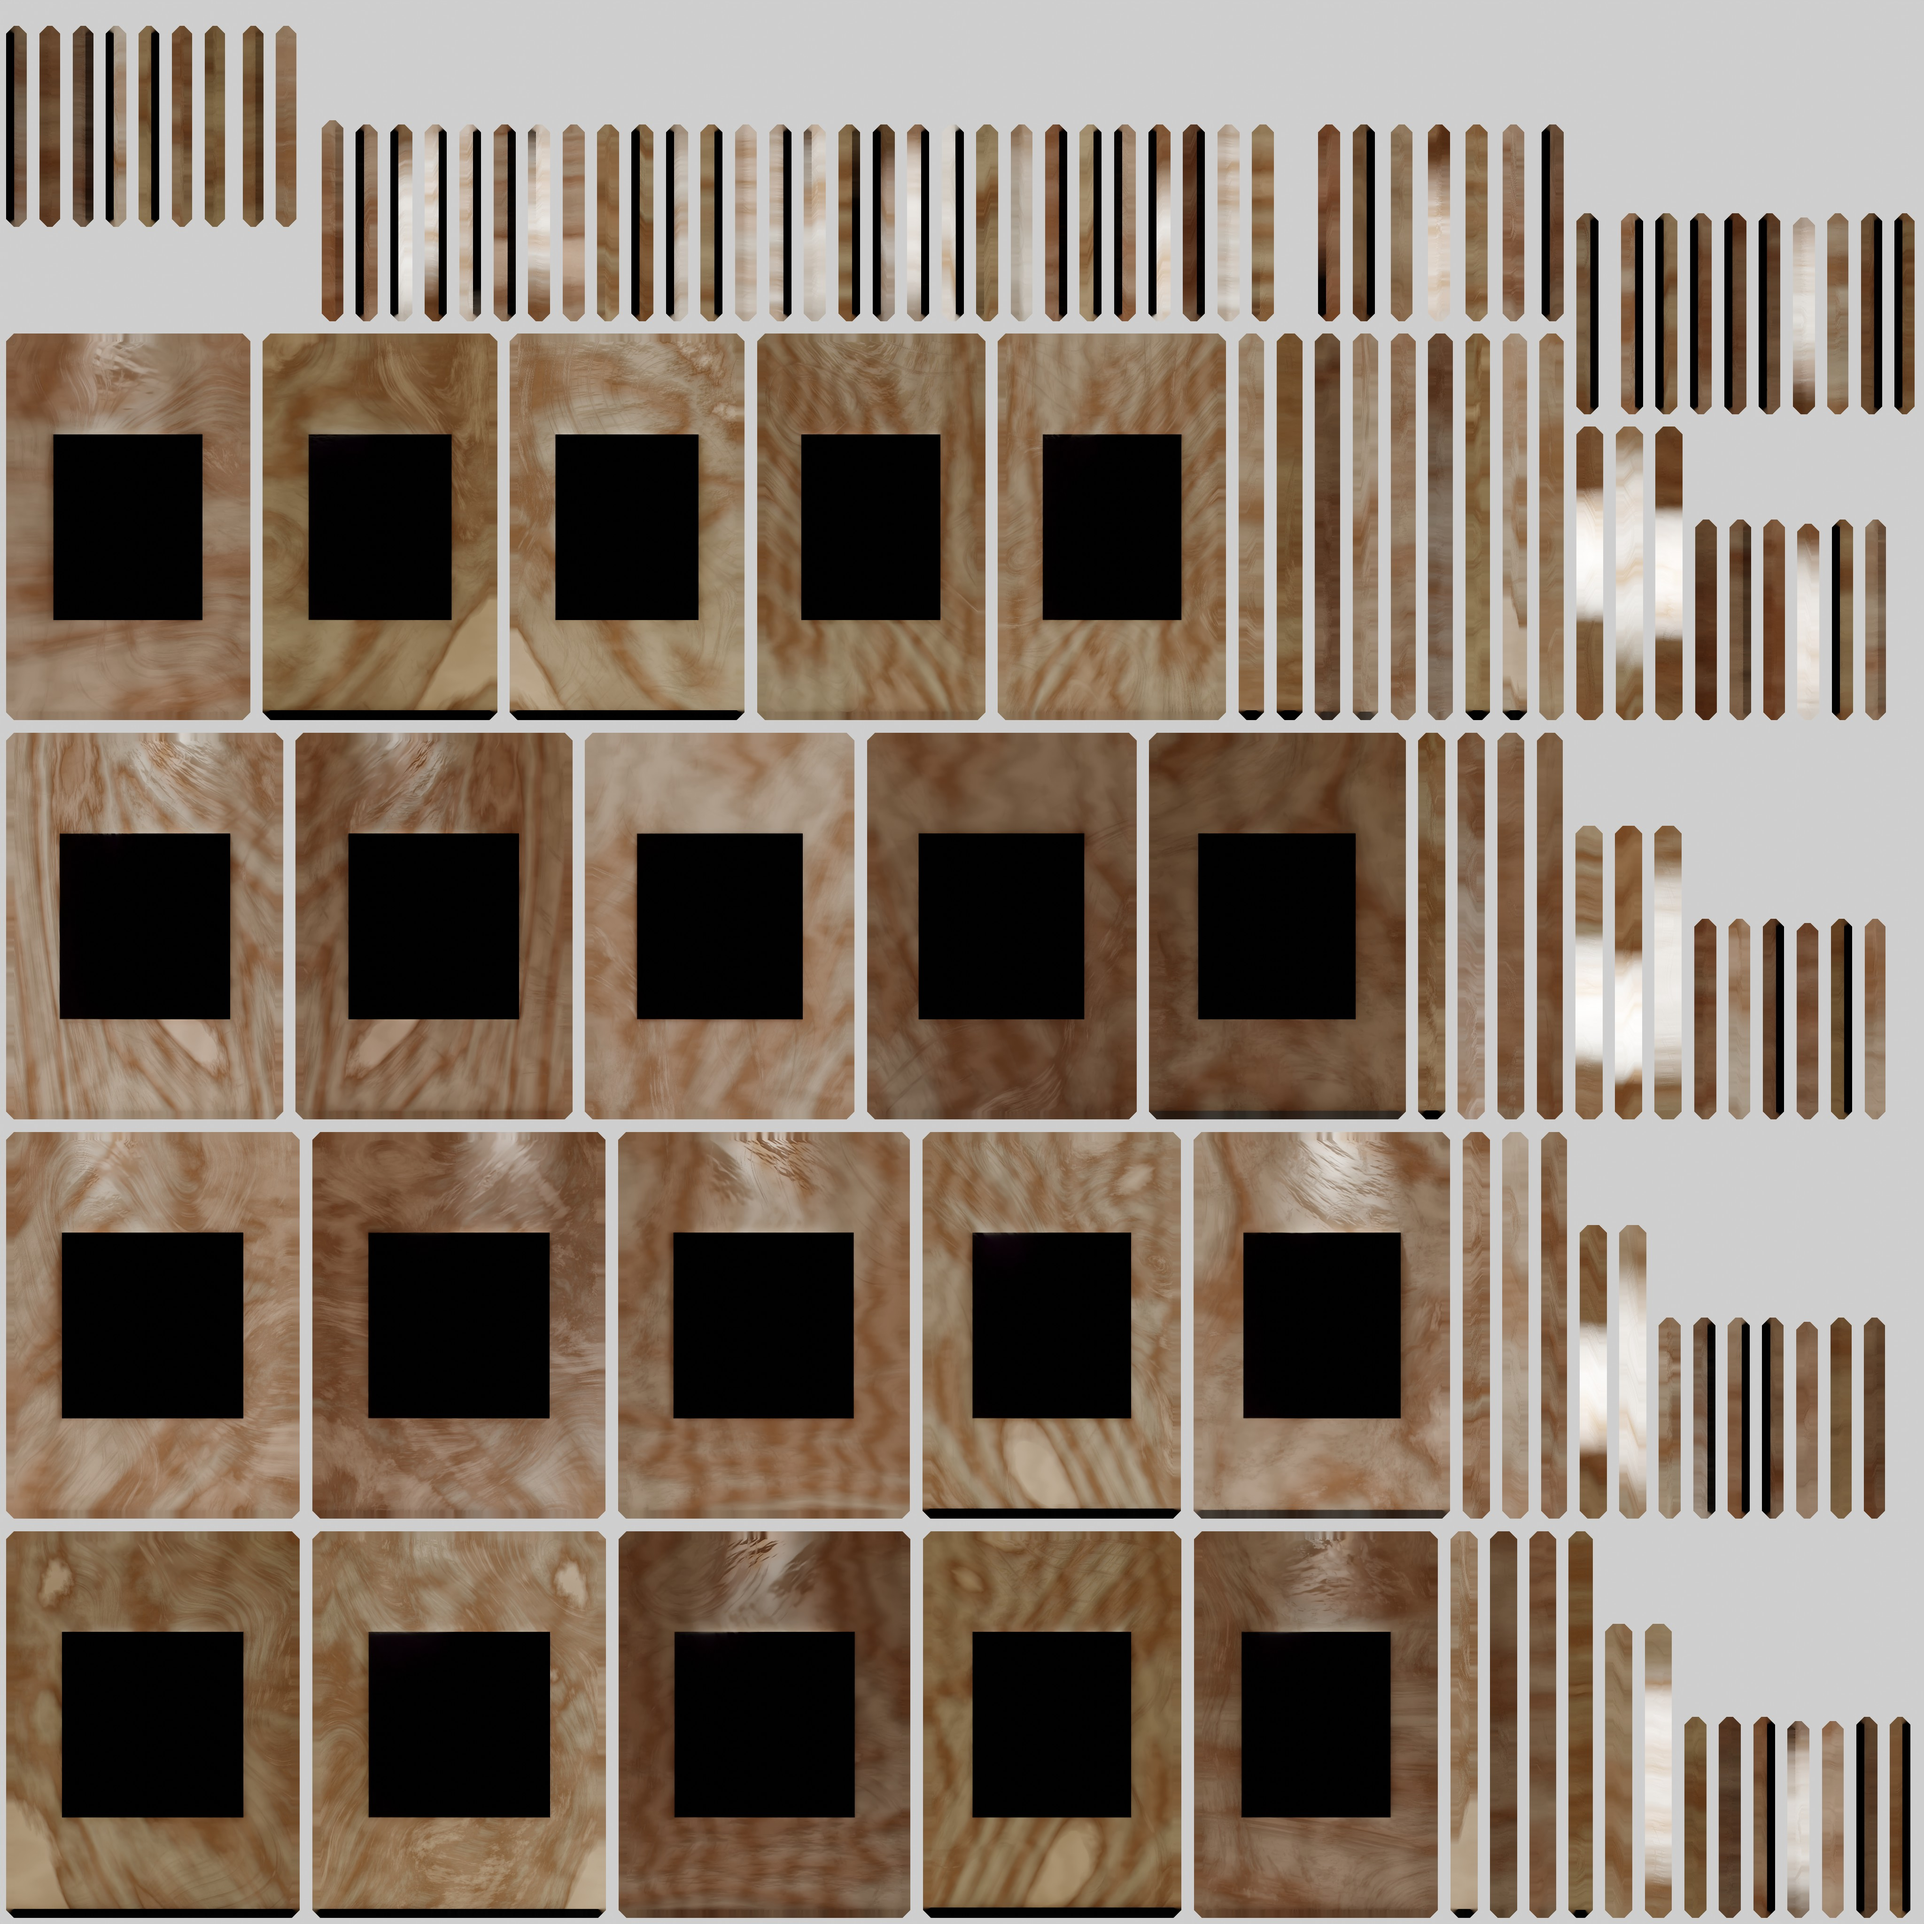
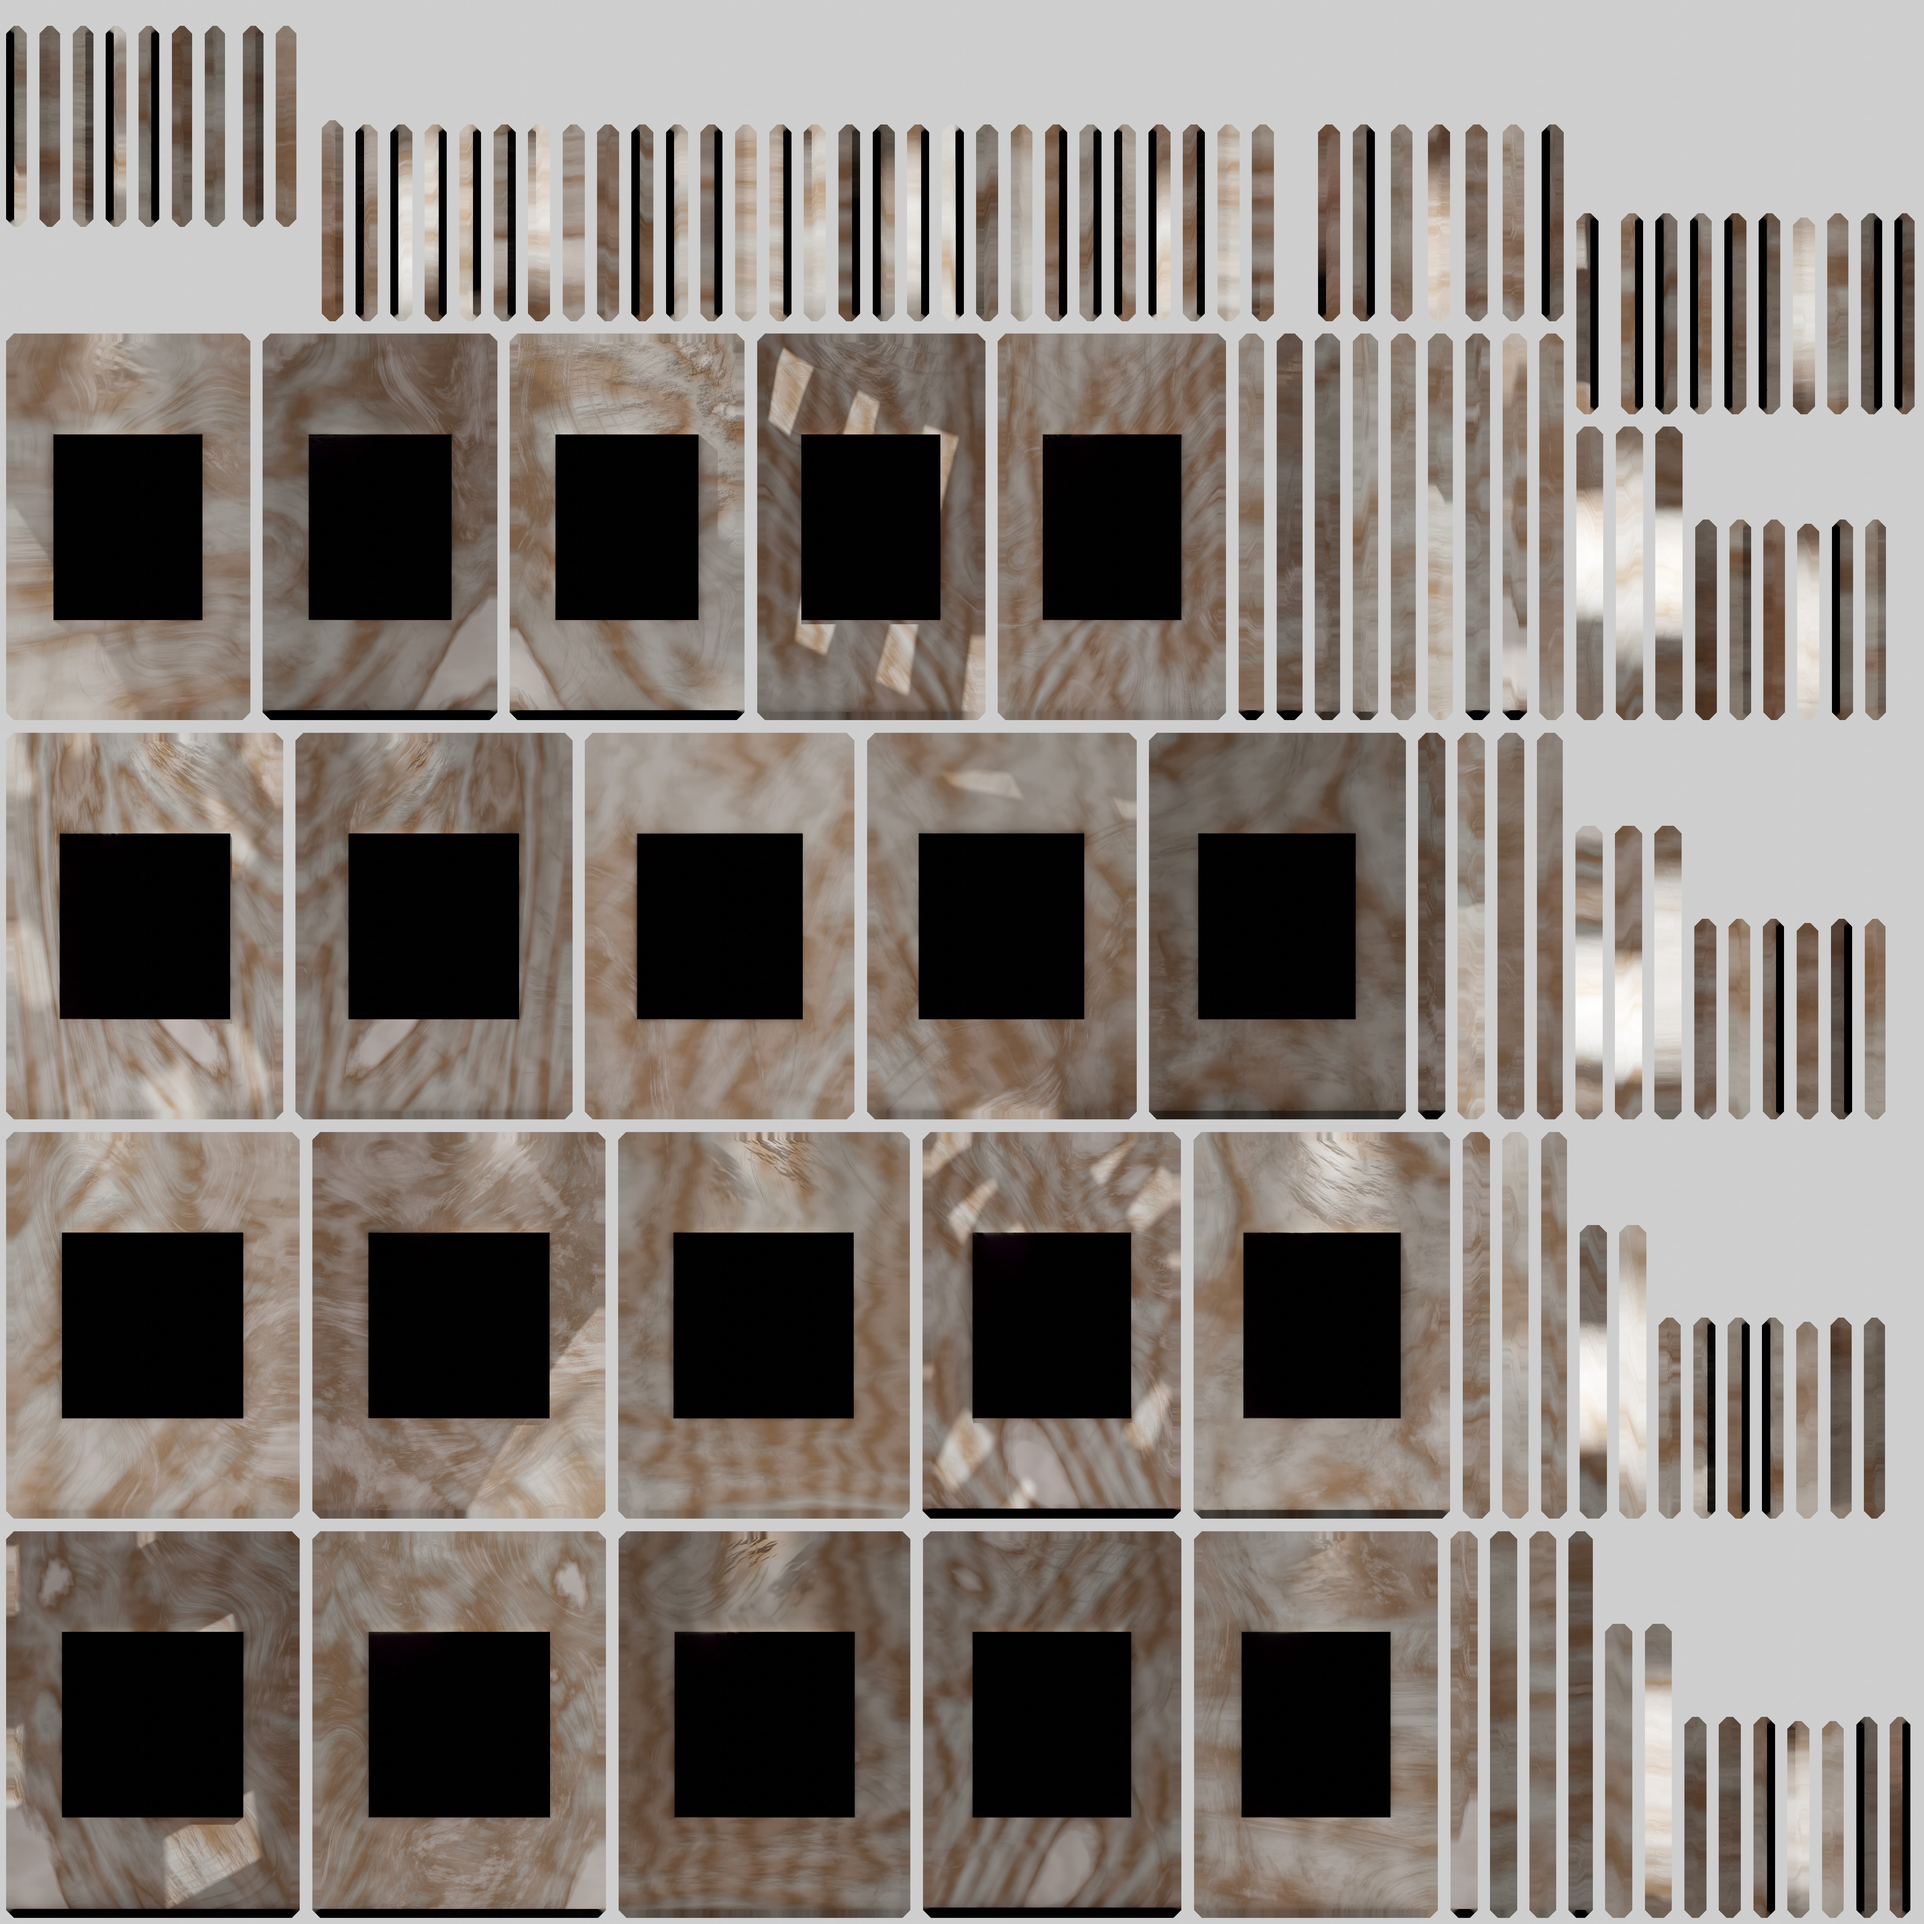
collision detection

diff --git a/src/components/webgl/Scene.ts b/src/components/webgl/Scene.ts
@@ -1,6 +1,6 @@
 import * as THREE from 'three';
 import Stats from 'stats-js';
-// import {OrbitControls} from 'three/examples/jsm/controls/OrbitControls.js';
+import {OrbitControls} from 'three/examples/jsm/controls/OrbitControls.js';
 import {GLTFLoader} from 'three/examples/jsm/loaders/GLTFLoader';
 import type {GLTF} from 'three/examples/jsm/loaders/GLTFLoader';
 import {DRACOLoader} from 'three/examples/jsm/loaders/DRACOLoader';
@@ -22,6 +22,7 @@ import {GlitchPass} from 'three/examples/jsm/postprocessing/GlitchPass.js';
 import {ShaderPass} from 'three/examples/jsm/postprocessing/ShaderPass';
 import {postProcessingShader} from './Shaders/postprocessing/shader';
 import {physicalObjects, portraitNames} from '../../utils/metaData';
+import {CollissionMesh} from './CollisionMesh/CollissionMesh';
 
 const sizes: Sizes = {
   width: window.innerWidth,
@@ -38,7 +39,7 @@ export class Scene {
   private camera: THREE.PerspectiveCamera;
   private scene: THREE.Scene;
 
-  // private controls: OrbitControls;
+  private controls: OrbitControls;
 
   private material: THREE.MeshBasicMaterial;
   private mesh: THREE.Mesh;
@@ -72,6 +73,8 @@ export class Scene {
   private renderPass: RenderPass;
   private glitchPass: GlitchPass;
 
+  private collissionMesh: CollissionMesh;
+
   public isMobile: boolean;
 
   public deviceOrientationControls: DeviceOrientationControls;
@@ -81,8 +84,6 @@ export class Scene {
   public scrollSpeed: number;
 
   public currentSession: boolean;
-
-  public effectController: any;
 
   constructor(el: HTMLCanvasElement) {
     this.renderer = new THREE.WebGLRenderer({
@@ -102,6 +103,8 @@ export class Scene {
     this.sky.scale.setScalar(450000);
     this.scene.add(this.sky);
 
+    this.collissionMesh = new CollissionMesh(this.scene);
+
     const waterGeometry = new THREE.PlaneGeometry(20000, 20000);
 
     this.water = new Water(waterGeometry, {
@@ -120,16 +123,6 @@ export class Scene {
     this.water.position.y = -1;
 
     this.scene.add(this.water);
-
-    this.effectController = {
-      turbidity: 10,
-      rayleigh: 1.246,
-      mieCoefficient: 0.069,
-      mieDirectionalG: 0.7,
-      elevation: 70,
-      azimuth: 180,
-      exposure: this.renderer.toneMappingExposure
-    };
 
     const uniforms = this.sky.material.uniforms;
 
@@ -165,7 +158,7 @@ export class Scene {
 
     this.bakedTexture = this.textureLoader.load('./static/interior-base.jpg');
     this.tessalationTexture = this.textureLoader.load('./static/tessalation-tent.jpg');
-    this.woodenWallsTexture = this.textureLoader.load('./static/wooden-walls-1.jpg');
+    this.woodenWallsTexture = this.textureLoader.load('./static/wooden-walls.jpg');
     this.vaseOne = this.textureLoader.load('./static/vases-one.jpg');
     this.vaseTwo = this.textureLoader.load('./static/vases-two.jpg');
     this.floorTexture = this.textureLoader.load('./static/floor.jpg');
@@ -284,7 +277,6 @@ export class Scene {
       }
 
       if (physicalObjects.includes(child.name)) {
-        console.log(`found ${child.name}`);
         this.physics.createPhysics(child as THREE.Mesh);
       }
 
@@ -323,13 +315,13 @@ export class Scene {
   }
 
   private addPortraits(gltfScene: GLTF): void {
-    portraitNames.forEach(name => {
-      const portrait = this.textureLoader.load(`./static/photos/${name}.jpg`);
+    portraitNames.forEach(creative => {
+      const portrait = this.textureLoader.load(`./static/photos/${creative.name}.jpg`);
       portrait.flipY = false;
       portrait.minFilter = THREE.LinearFilter;
       const material = new THREE.MeshBasicMaterial({map: portrait});
 
-      const mesh = gltfScene.scene.children.find(child => child.name === name) as THREE.Mesh;
+      const mesh = gltfScene.scene.children.find(child => child.name === creative.name) as THREE.Mesh;
 
       mesh.material = material;
     });

diff --git a/src/utils/metaData.ts b/src/utils/metaData.ts
@@ -1,26 +1,86 @@
+import * as THREE from 'three';
+
 export const portraitNames = [
-  'dallis',
-  'jamil',
-  'porchia',
-  'junior',
-  'kwame',
-  // 'soraja',
-  'darryl',
-  'terry',
-  'kenneth',
-  'mirella',
-  'crystalina',
-  'bonsu',
-  'eben',
-  'meester-kwame',
-  'ronald',
-  'eboafo',
-  'churchbwoygram',
-  'othnell',
-  'branko',
-  'emmanuel',
-  'denitio'
+  {
+    name: 'jamil',
+    coordinates: new THREE.Vector3(10.766779209698752, 0, -3.2432525587517667)
+  },
+  {
+    name: 'crystalina',
+    coordinates: new THREE.Vector3(15.009908246036689, 0, -6.938191632838113)
+  },
+  {
+    name: 'terry',
+    coordinates: new THREE.Vector3(1.1948243408823687, 0, -10.924579780892797)
+  },
+  {
+    name: 'darryl',
+    coordinates: new THREE.Vector3(-4.310308213360079, 0, -13.587756269419916)
+  },
+  {
+    name: 'meester-kwame',
+    coordinates: new THREE.Vector3(-8.777848451986934, 0, -9.58072077675611)
+  },
+  {
+    name: 'emmanuel',
+    coordinates: new THREE.Vector3(-14.17697527983192, 0, -6.359127050865383)
+  },
+  {
+    name: 'bonsu',
+    coordinates: new THREE.Vector3(-10.902681629161126, 0, 4.298527213393908)
+  },
+  {
+    name: 'kwame',
+    coordinates: new THREE.Vector3(-12.000644067788865, 0, 10.953168605207276)
+  },
+  {
+    name: 'othnell',
+    coordinates: new THREE.Vector3(-2.6532364563708195, 0, 15.032827562871368)
+  },
+  {
+    name: 'eben',
+    coordinates: new THREE.Vector3(2.889126442640087, 0, 11.158216004787308)
+  },
+  {
+    name: 'branko',
+    coordinates: new THREE.Vector3(10.629905952617488, 0, 10.455758777354255)
+  },
+  {
+    name: 'dallis',
+    coordinates: new THREE.Vector3(10.886836730823616, 0, 3.788476742822992)
+  },
+  {
+    name: 'ronald',
+    coordinates: new THREE.Vector3(-7.115854867939999, 5.8, -1.4409451323676359)
+  },
+  {
+    name: 'kenneth',
+    coordinates: new THREE.Vector3(-8.403389710785191, 5.8, 2.981797360254574)
+  },
+  {
+    name: 'junior',
+    coordinates: new THREE.Vector3(-8.110173797429065, 5.8, 9.00672137486944)
+  },
+  {
+    name: 'porchia',
+    coordinates: new THREE.Vector3(-3.3782399803866245, 5.8, 11.798093011474574)
+  },
+  {
+    name: 'mirella',
+    coordinates: new THREE.Vector3(2.906722722641966, 5.8, 8.961690212363647)
+  },
+  {
+    name: 'eboafo',
+    coordinates: new THREE.Vector3(-8.796496384646455, 5.8, -7.311549121881263)
+  },
+  {
+    name: 'denitio',
+    coordinates: new THREE.Vector3(-3.6183742041848066, 5.8, -10.106474159702637)
+  },
+  {
+    name: 'churchbwoygram',
+    coordinates: new THREE.Vector3(2.4798396318405023, 5.8, -8.044154207276335)
+  }
 ];
 
-// const baseGeometry = ['kleine-rotsen', 'randen', 'trap', 'trap-leuning', 'trap-steuning', 'tweede-verdieping'];
 export const physicalObjects = ['randen', 'randen001', 'trap', 'tessalation-tent'];

diff --git a/src/components/webgl/Physics/Physics.ts b/src/components/webgl/Physics/Physics.ts
@@ -3,6 +3,7 @@ import * as THREE from 'three';
 import CannonDebugRenderer from '../cannonDebugger/cannonDebuger';
 import CannonUtils from '../cannonDebugger/cannonUtils';
 import * as dat from 'dat.gui';
+import {portraitNames} from '../../../utils/metaData';
 
 interface RenderProps {
   camera: THREE.PerspectiveCamera;
@@ -23,12 +24,6 @@ export class PhysicsWorld {
   private firstFloorPartOne: CANNON.Body;
   private firstFloorPartTwo: CANNON.Body;
   private firstFloorPartThree: CANNON.Body;
-  private firstFloorPartFour: CANNON.Body;
-
-  private fenceOne: CANNON.Body;
-  private fenceTwo: CANNON.Body;
-  private fenceThree: CANNON.Body;
-  private backwall: CANNON.Body;
 
   public physicsWorld: CANNON.World;
   public sphereBody: CANNON.Body;
@@ -73,6 +68,24 @@ export class PhysicsWorld {
     this.firstFloorPartThree = new CANNON.Body({
       shape: new CANNON.Box(new CANNON.Vec3(5.2, 0.2, 8)),
       position: new CANNON.Vec3(5, 5.8, -11)
+    });
+
+    portraitNames.forEach(creative => {
+      const shape = new CANNON.Box(new CANNON.Vec3(0.75, 0.075, 0.75));
+      const position = new CANNON.Vec3(creative.coordinates.x, creative.coordinates.y, creative.coordinates.z);
+
+      const body = new CANNON.Body({
+        shape,
+        position,
+        isTrigger: true
+      });
+
+      body.addEventListener('collide', (event: CANNON.EventTarget) => {
+        console.log(event);
+        console.log(`you are looking at ${creative.name}`);
+      });
+
+      this.physicsWorld.addBody(body);
     });
 
     this.physicsWorld.addBody(this.sphereBody);

diff --git a/src/components/webgl/CollisionMesh/CollissionMesh.ts b/src/components/webgl/CollisionMesh/CollissionMesh.ts
@@ -1,0 +1,31 @@
+import * as THREE from 'three';
+import {portraitNames} from '../../../utils/metaData';
+
+export class CollissionMesh {
+  private geometry: THREE.BoxGeometry;
+  private material: THREE.MeshBasicMaterial;
+  private mesh: THREE.InstancedMesh;
+  private dummy: THREE.Object3D;
+
+  constructor(scene: THREE.Scene) {
+    this.dummy = new THREE.Object3D();
+
+    this.geometry = new THREE.BoxGeometry(1.5, 0.15, 1.5);
+    this.material = new THREE.MeshBasicMaterial({
+      color: new THREE.Color(0xffe7d3),
+      transparent: true
+    });
+
+    this.mesh = new THREE.InstancedMesh(this.geometry, this.material, portraitNames.length);
+    this.mesh.instanceMatrix.setUsage(THREE.DynamicDrawUsage);
+
+    scene.add(this.mesh);
+
+    portraitNames.forEach((creative, index) => {
+      this.dummy.position.copy(creative.coordinates);
+      this.dummy.updateMatrix();
+
+      this.mesh.setMatrixAt(index, this.dummy.matrix);
+    });
+  }
+}

diff --git a/src/components/webgl/Scene.svelte b/src/components/webgl/Scene.svelte
@@ -178,7 +178,7 @@
 
       {#if !isMobileDevice}
         <IconWithText icon={IconType.mouse} message={'Use your mouse to look around'} />
-        <IconWithText icon={IconType.escape} message={'Press escape to leave the gallery'} />
+        <IconWithText icon={IconType.escape} message={'Press escape to leave the experience'} />
         <IconWithText icon={IconType.soundKey} message={'Press the M key to toggle the sound'} />
       {:else}
         <IconWithText icon={IconType.phone} message={'Rotate your device to look around'} />
